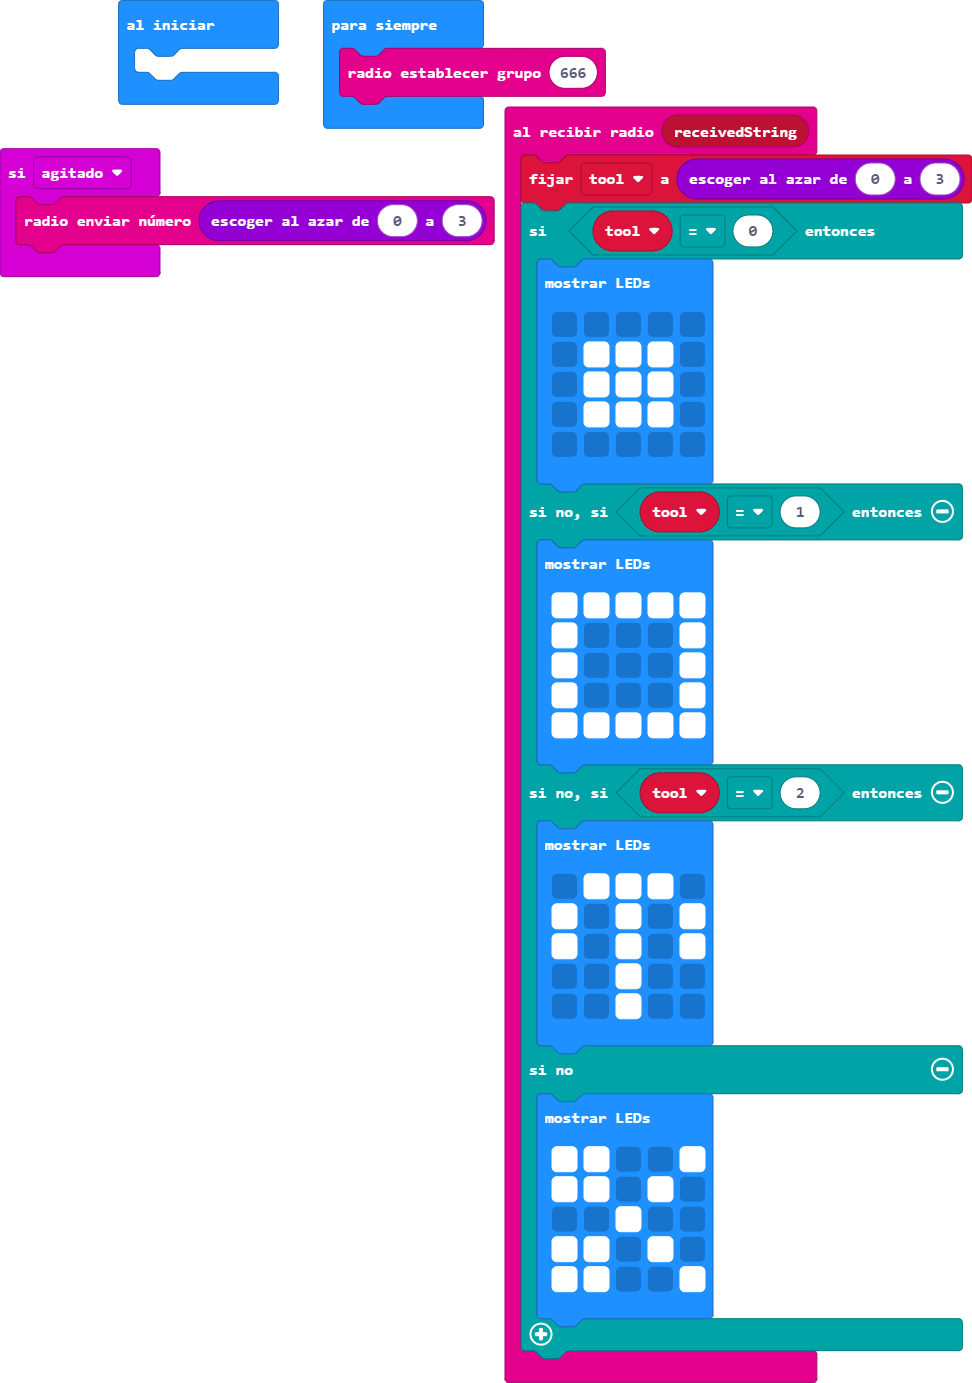
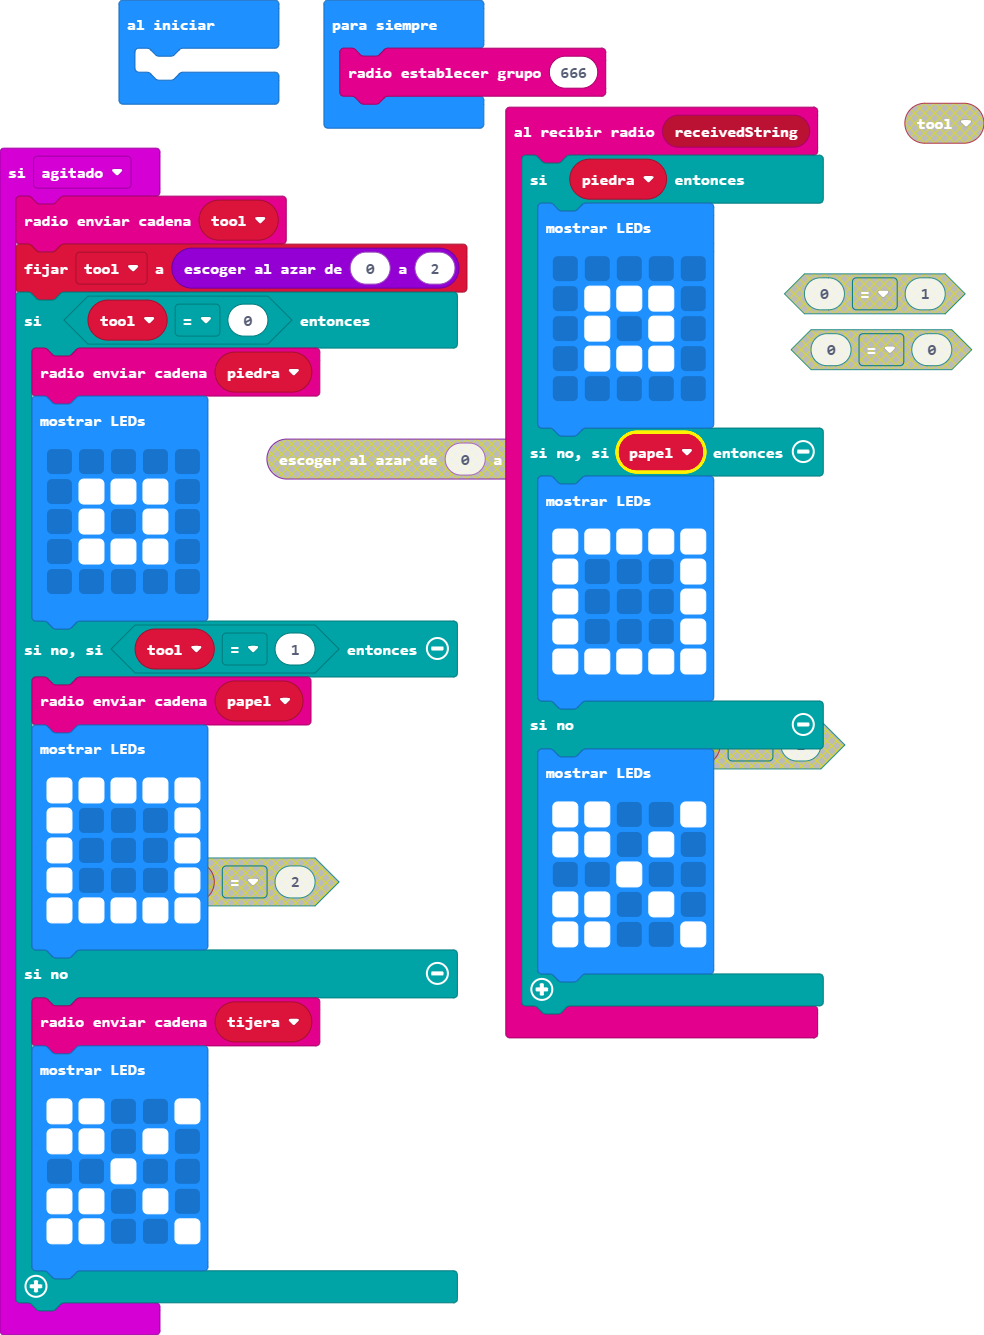
Actualizar main.blocks, main.ts

diff --git a/main.ts b/main.ts
@@ -1,18 +1,20 @@
 let tool = 0
+let piedra = 0
+let papel = 0
 input.onGesture(Gesture.Shake, function () {
-    radio.sendNumber(randint(0, 3))
-})
-radio.onReceivedString(function (receivedString) {
-    tool = randint(0, 3)
+    radio.sendString("" + (tool))
+    tool = randint(0, 2)
     if (tool == 0) {
+        radio.sendString("" + (piedra))
         basic.showLeds(`
             . . . . .
             . # # # .
-            . # # # .
+            . # . # .
             . # # # .
             . . . . .
             `)
     } else if (tool == 1) {
+        radio.sendString("" + (papel))
         basic.showLeds(`
             # # # # #
             # . . . #
@@ -20,13 +22,34 @@ radio.onReceivedString(function (receivedString) {
             # . . . #
             # # # # #
             `)
-    } else if (tool == 2) {
+    } else {
+        let tijera = 0
+        radio.sendString("" + (tijera))
         basic.showLeds(`
+            # # . . #
+            # # . # .
+            . . # . .
+            # # . # .
+            # # . . #
+            `)
+    }
+})
+radio.onReceivedString(function (receivedString) {
+    if (piedra) {
+        basic.showLeds(`
+            . . . . .
             . # # # .
-            # . # . #
-            # . # . #
-            . . # . .
-            . . # . .
+            . # . # .
+            . # # # .
+            . . . . .
+            `)
+    } else if (papel) {
+        basic.showLeds(`
+            # # # # #
+            # . . . #
+            # . . . #
+            # . . . #
+            # # # # #
             `)
     } else {
         basic.showLeds(`
